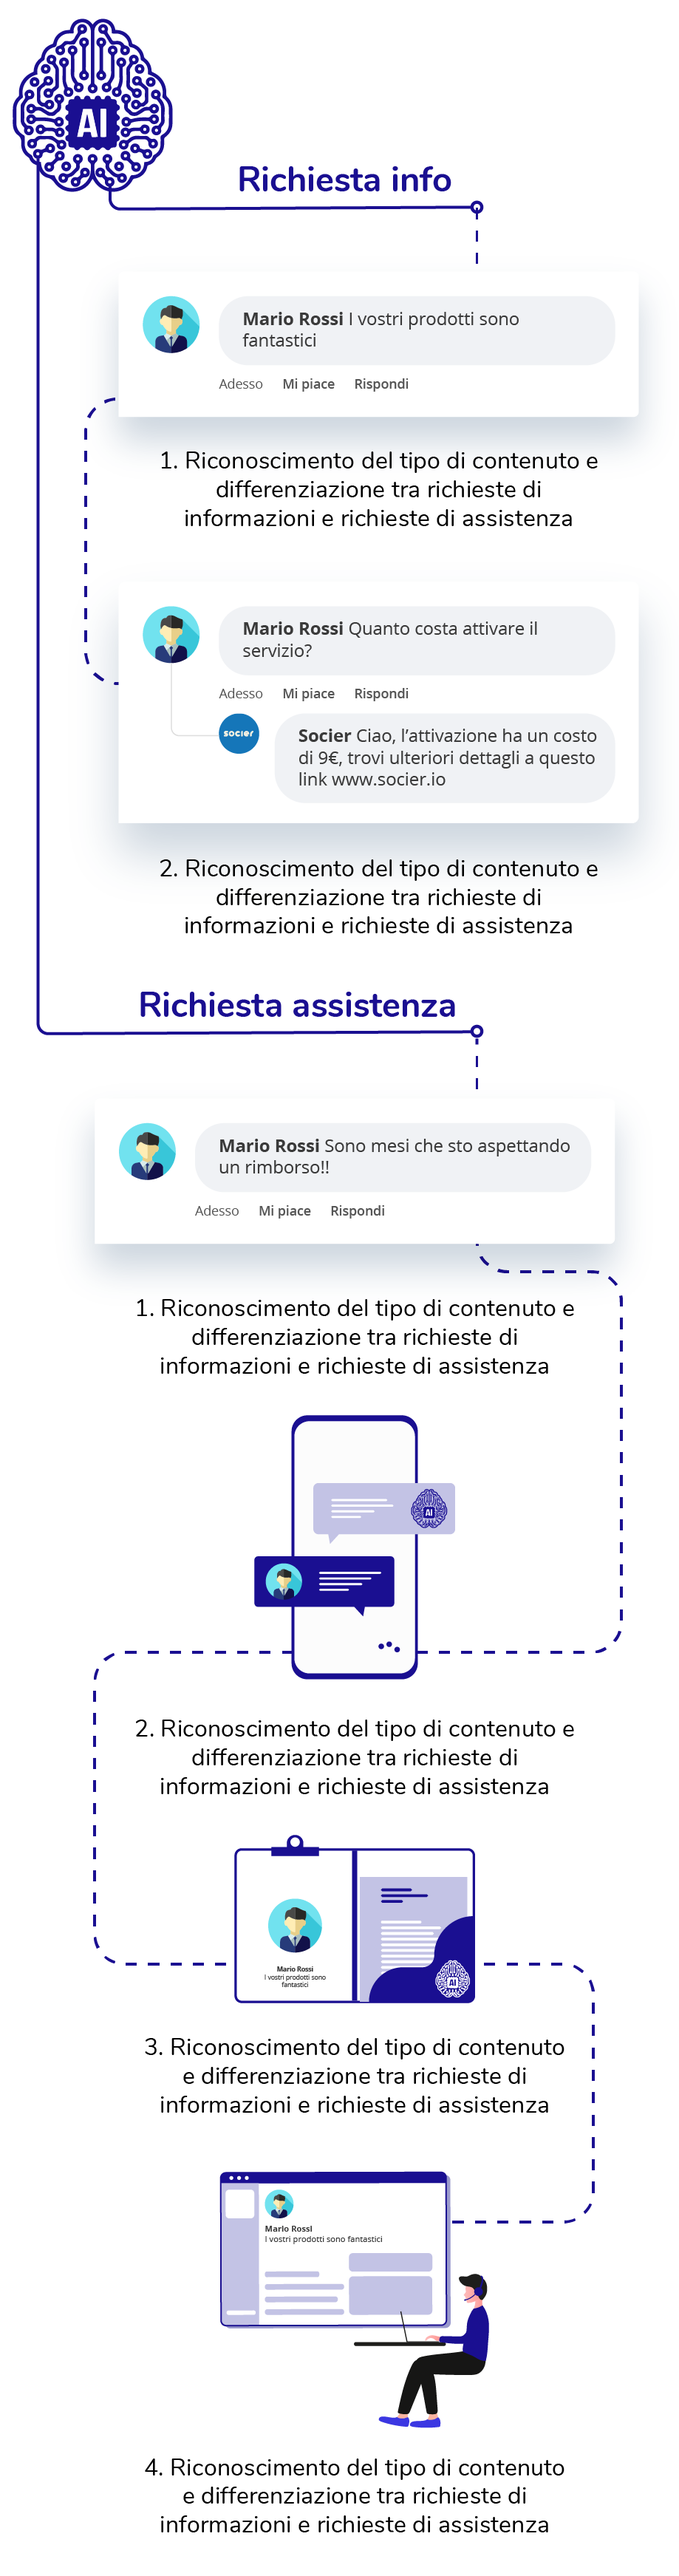
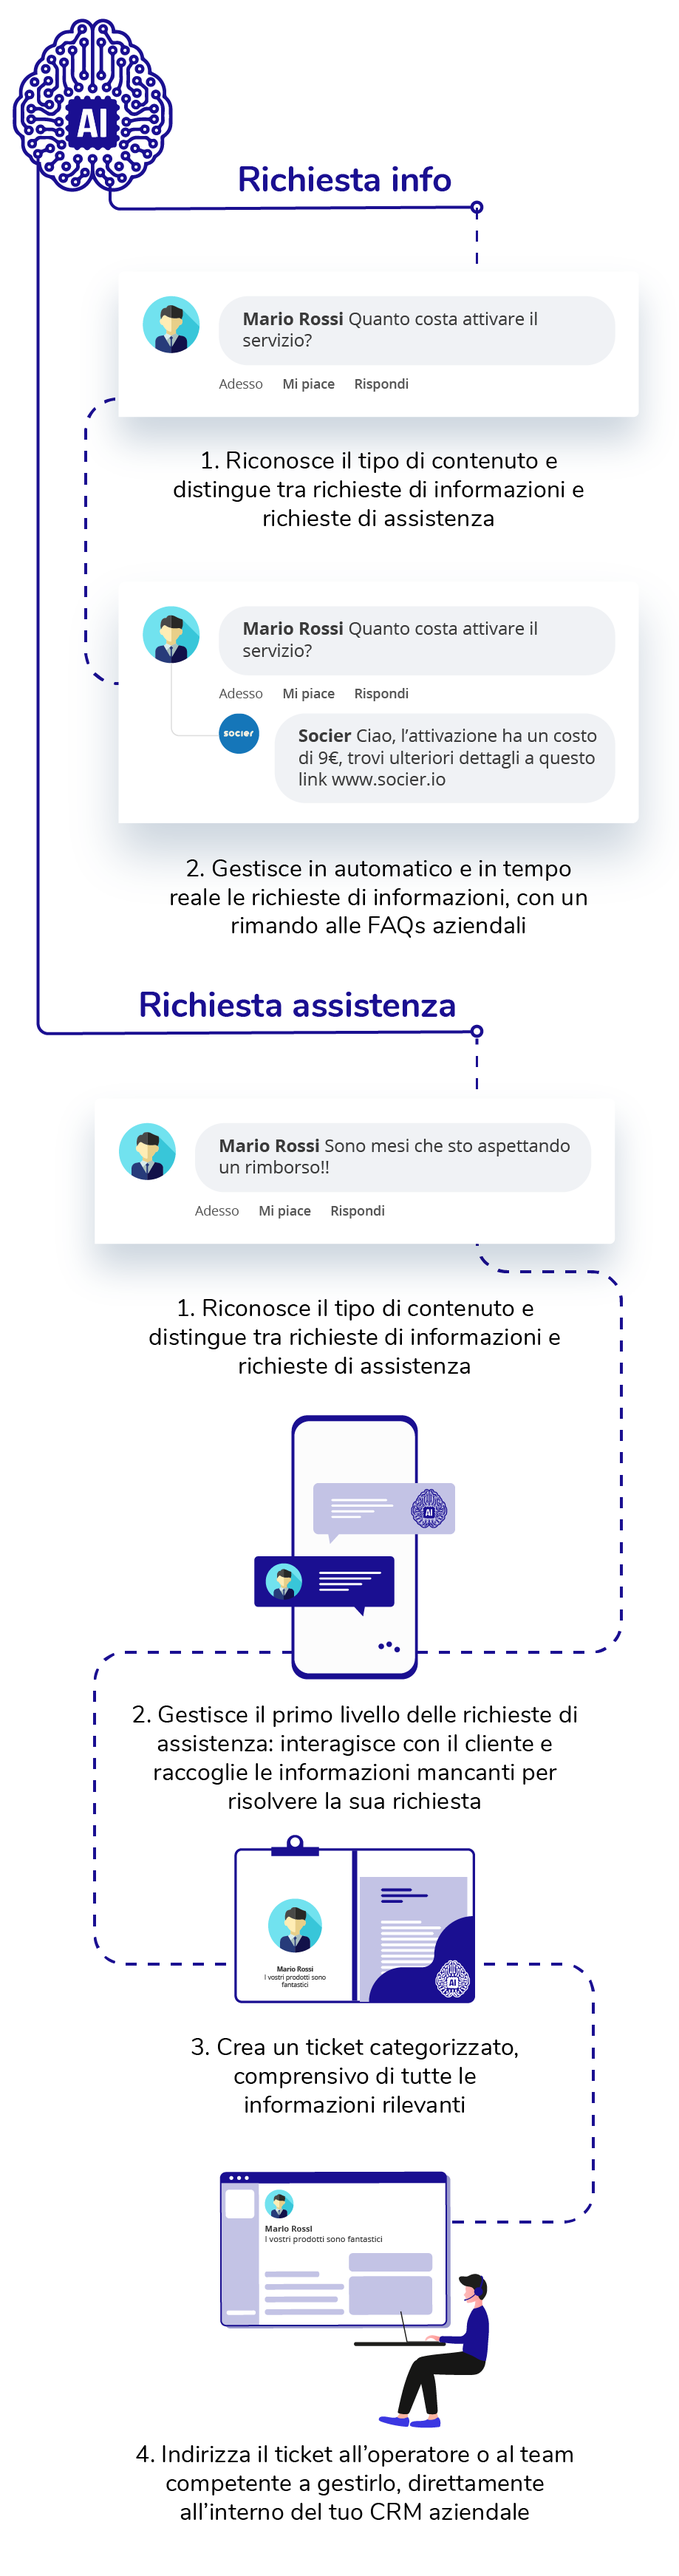
fix testi

diff --git a/cnc.html b/cnc.html
@@ -77,17 +77,15 @@
 
     <div class="container stip_cnc-container">
         <div class="row h-100 justify-content-center align-items-center">
-            <div class="col-md-5">
+            <div class="col-md-6 pr-md-5 pr-0">
                 <h1>E tu, l’hai mai provata?</h1>
-                <h2 class="mt-3">La nostra Intelligenza Artificiale è nelle tue mani.</h2>
-                <p class="stip-txt">Tutti ne parlano, ma nessuno si assume il rischio di fartela provare. Noi si.
-                    Prova l’IA di Stip e immagina come potrebbe migliorare il tuo business.
-                </p>
-                <p class="stip-txt">Vedi questo post?
-                    è un post Facebook, di una qualsiasi azienda, proprio come la tua. Una cosa è certa: qualcuno commenterà e quasi sempre, si aspetterà una risposta. Commenta il post qui sotto come farebbe un tuo cliente e scopri cosa succede!
+                <h2>La nostra Intelligenza Artificiale è nelle tue mani.</h2>
+                <p class="stip-txt">Tutti ne parlano, ma nessuno si assume il rischio di fartela provare. Stip si.</p>
+                <p class="stip-txt mt-4">Vedi questo post?
+                    E’ un post Facebook, di una qualsiasi azienda, proprio come la tua. Commenta il post come farebbe un tuo cliente e scopri cosa succede!
                 </p>
             </div>
-            <div class="offset-md-1 col-md-6 mt-4 mt-md-0">
+            <div class="col-md-6 mt-4 mt-md-0">
                 <div class="card stip_facebook-card shadow">
                     <div class="card-header bg-white">
                         <div class="d-flex align-items-center">
@@ -144,6 +142,13 @@
                 </div>
             </div>
         </div>
+        <div class="row">
+            <div class="col">
+                <p class="stip-txt text-center mt-4">
+                    Gioca con l’IA di Stip, la prima che ti permette di <b>migliorare l’efficienza dei tuoi operatori del 300%</b>. E ricorda, il <b>95% dei ticket gestiti</b> tramite Stip non hanno bisogno di un ulteriore contatto con il cliente!
+                </p>
+            </div>
+        </div>
     </div>
 
     <div id="stip_caring-animation" style="display: none;">
@@ -153,45 +158,21 @@
                     <h3 class="stip-h1" style="font-weight: 600;" data-aos="fade">Questo contenuto è “caring”. Ma cosa significa?</h3>
                 </div>
             </div>
-            <div class="row">
-                <div class="col-md-6">
+            <div class="row justify-content-center">
+                <div class="col-md-8">
                     <p class="stip-txt" data-aos="fade">
-                        L’IA di Stip individua come “caring” tutte le <b>richieste di informazioni e quelle di assistenza</b>, assegnando a questo tipo di contenuti una <b>priorità elevata</b> di gestione per il team di customer service.
+                        L’Intelligenza Artificiale di Stip identifica come “caring” tutte le <b>richieste di informazioni e quelle di assistenza</b>, assegnandogli una <b>priorità elevata</b> di gestione.
 
-                        L’IA riconosce questi tipi di richieste e distingue tra richieste informazioni, che possono essere gestite direttamente e senza necessità di intervento umano, e richieste di assistenza, che hanno bisogno di essere gestite da un operatore.
-
+                        Stip prevede due diversi procedimenti per la gestione delle richieste di informazioni e di quelle di assistenza:
                     </p>
                     <ul>
                         <li>
-                            <p>Le richieste di informazioni vengono gestite dall’IA di Stip automaticamente e in tempo reale, attraverso l’invio di FAQs e in accordo con le policy aziendali
-                            </p>
+                            <p class="m-0">individuata una richiesta di informazioni, l’IA la gestisce automaticamente e in tempo reale</p>
                         </li>
                         <li>
-                            <p>Le richieste di assistenza prevedono una gestione di primo livello da parte dell’IA di Stip, che consente all’operatore di finalizzare la gestione in una sola interazione con l’utente.
-                            </p>
+                            <p>identificata una richiesta di assistenza, l’IA la gestisce in primo livello, lasciando all’operatore il compito di completarne la gestione nel modo più rapido ed efficace possibile.</p>
                         </li>
                     </ul>
-                </div>
-                <div class="col-md-6">
-                    <p class="stip-txt" data-aos="fade">
-                        Il 99% delle aziende si affida a una gestione manuale di tutte le fasi dell’assistenza al cliente. Ogni volta che un utente scrive un contenuto indirizzato - direttamente o indirettamente - all’azienda, un operatore dovrà:
-                    </p>
-                    <ul>
-                        <li>
-                            <p>leggerlo e comprenderne il contenuto</p>
-                        </li>
-                        <li>
-                            <p>definirne la priorità di risoluzione</p>
-                        </li>
-                        <li>
-                            <p>gestirlo o invarlo alla persona più competente</p>
-                        </li>
-                    </ul>
-                    <p>
-                        Queste attività costituiscono un grande dispendio di tempo ed energia per gli operatori e un grande sforzo economico per l’azienda, pur non possedendo alcun <b>“valore aggiunto” per il cliente</b> finale.
-
-                        <b>Automatizzando la gestione di primo livello delle richieste</b>, l’IA di Stip consente agli operatori di aumentare la propria efficienza, all’azienda di risparmiare e agli utenti di ricevere un servizio più soddisfacente.
-                    </p>
                 </div>
             </div>
         </div>
@@ -205,32 +186,22 @@
                 <div class="col d-flex align-items-center flex-column" data-aos="fade">
                     <img src="./src/img/flusso_caring.png" class="d-none d-md-block w-100">
                     <img src="./src/img/flusso_caring_mobile.png" class="d-block d-md-none w-100">
+                </div>
+            </div>
+            <div class="row">
+                <div class="col d-flex justify-content-center">
                     <a href="https://wa.me/+393474975970?text=Vorrei%20avere%20pi%C3%B9%20informazioni"><button type="button"
                             title="contattaci su Whatsapp"
                             class="d-block d-md-none mt-4 btn btn-primary stip-cta-linkedin">
                             Contattaci su Whatsapp
                         </button></a>
+                    <a style="text-decoration: none;" href="mailto:fabrizio.aiello@stip.io"><button type="button"
+                            title="contattaci su Whatsapp"
+                            class="d-none d-md-block mt-4 btn btn-primary stip-cta-linkedin text-center">
+                            CONTATTACI VIA EMAIL<i class="material-icons-outlined ml-2"
+                                style="vertical-align: middle; font-size: 18px;">email</i>
+                        </button></a>
                 </div>
-                <!-- <div class="col-md-4" data-aos="fade">
-                    <img src="./src/img/cnc-caring1.png" class="w-100">
-                    <h2 class="stip-h3 text-center">Riconoscimento del tipo di contenuto e differenziazione tra richieste di informazioni e richieste di assistenza</h2>
-                </div>
-                <div class="col-md-4" data-aos="fade">
-                    <img src="./src/img/cnc-caring2.png" class="w-100">
-                    <h2 class="stip-h3 text-center">Gestione automatica, in tempo reale e senza necessità di intervento umano delle richieste informazioni, attraverso FAQs o secondo le policy aziendali</h2>
-                </div>
-                <div class="col-md-4" data-aos="fade">
-                    <img src="./src/img/cnc-caring3.png" class="w-100">
-                    <h2 class="stip-h3 text-center">Gestione di primo livello delle richieste di assistenza: raccolta delle informazioni necessarie per la risoluzione della richiesta dell’utente</h2>
-                </div>
-                <div class="col-md-4" data-aos="fade">
-                    <img src="./src/img/cnc-caring4.png" class="w-100">
-                    <h2 class="stip-h3 text-center">Creazione di un ticket categorizzato, comprensivo delle informazioni ricevute a seguito dell’interazione automatica con l’utente</h2>
-                </div>
-                <div class="col-md-4" data-aos="fade">
-                    <img src="./src/img/cnc-caring4.png" class="w-100">
-                    <h2 class="stip-h3 text-center">Indirizzamento del ticket categorizzato all’operatore o al team competente a gestirlo, all’interno del CRM aziendale</h2>
-                </div> -->
             </div>
         </div>
     </div>
@@ -242,21 +213,12 @@
                     <h3 class="stip-h1" style="font-weight: 600;" data-aos="fade">Questo contenuto è “no caring”. Ma cosa significa?</h3>
                 </div>
             </div>
-            <div class="row">
-                <div class="col-md-6">
+            <div class="row justify-content-center">
+                <div class="col-md-8">
                     <p class="stip-txt" data-aos="fade">
-                        L’IA di Stip individua come “no caring” tutti i contenuti che abbiano bassa (o nulla) priorità di gestione per il team di customer service, non trattandosi di richieste di assistenza o di informazioni.
+                        L’Intelligenza Artificiale di Stip identifica come “no caring” tutti i contenuti diversi da richieste di assistenza o di informazione, che abbiano, quindi, <b>bassa (o nulla) priorità di gestione</b> per il team di customer service,
 
-                        I contenuti classificati dall’IA di Stip come “no caring” saranno comunque visibili all’interno del CRM aziendale (o sulla piattaforma di Stip) e potranno essere gestiti.
-                    </p>
-                </div>
-                <div class="col-md-6">
-                    <p class="stip-txt" data-aos="fade">
-                        <b>Come cambia il customer service di oggi?</b>
-
-                        I contenuti “no caring” costituiscono una percentuale variabile tra il 60% e il 90% di tutti i contenuti ricevuti da un’azienda sui canali digitali.
-
-                        Questa classificazione automatica dell’IA di Stip, consente agli operatori di risparmiare il tempo impiegato nella lettura e nel riconoscimento di questi contenuti, permettendogli di concentrarsi solo sulla gestione delle richieste di assistenza e sulle attività di secondo livello, a “valore aggiunto” per il cliente.
+                        I contenuti “no caring” restano comunque visibili all’interno del CRM aziendale o della piattaforma di Stip e sono gestibili manualmente, secondo le policy aziendali.
                     </p>
                 </div>
             </div>
@@ -270,17 +232,46 @@
             <div class="row justify-content-center">
                 <div class="col-md-4" data-aos="fade">
                     <img src="./src/img/cnc-nocaring1.png" class="w-100">
-                    <h2 class="stip-h3 text-center">Riconoscimento della bassa (o nulla) priorità di gestione del contenuto (applicabile a tutti i contenuti che non siano richieste di assistenza o informazioni)</h2>
+                    <h2 class="stip-h3 text-center">Riconosce la bassa (o nulla) priorità di gestione del contenuto: applicabile a tutti i contenuti diversi da richieste di assistenza o di informazioni</h2>
                 </div>
                 <div class="col-md-4" data-aos="fade">
                     <img src="./src/img/cnc-nocaring2.png" class="w-100">
-                    <h2 class="stip-h3 text-center">Indirizzamento automatico del contenuto all’interno del CRM aziendale o della piattaforma di Stip</h2>
+                    <h2 class="stip-h3 text-center">Indirizza automaticamente il contenuto “no caring” all’interno del CRM aziendale, offrendo la possibilità di gestirlo manualmente</h2>
                 </div>
-                <a href="https://wa.me/+393474975970?text=Vorrei%20avere%20pi%C3%B9%20informazioni"><button type="button"
-                        title="contattaci su Whatsapp"
-                        class="d-block d-md-none mt-4 btn btn-primary stip-cta-linkedin text-center">
-                        Contattaci su Whatsapp
-                    </button></a>
+            </div>
+            <div class="row">
+                <div class="col d-flex justify-content-center">
+                    <a href="https://wa.me/+393474975970?text=Vorrei%20avere%20pi%C3%B9%20informazioni"><button type="button"
+                            title="contattaci su Whatsapp"
+                            class="d-block d-md-none mt-4 btn btn-primary stip-cta-linkedin">
+                            Contattaci su Whatsapp
+                        </button></a>
+                    <a style="text-decoration: none;" href="mailto:fabrizio.aiello@stip.io"><button type="button"
+                            title="contattaci su Whatsapp"
+                            class="d-none d-md-block mt-4 btn btn-primary stip-cta-linkedin text-center">
+                            CONTATTACI VIA EMAIL<i class="material-icons-outlined ml-2"
+                                style="vertical-align: middle; font-size: 18px;">email</i>
+                        </button></a>
+                </div>
+            </div>
+        </div>
+    </div>
+    
+    <div class="container-fluid stip-section-linkedin text-white stip_cnc-description mt-5">
+        <div class="row justify-content-center">
+            <div class="col-md-8">
+                <h3 class="stip-h1" style="font-weight: 600;" data-aos="fade">Come può migliorare il tuo business?</h3>
+                <p class="stip-txt" data-aos="fade">
+                    Il 99% delle aziende oggi si affida ancora a una <b>gestione totalmente manuale</b> del processo di customer service.
+
+                    Ogni volta che un utente scrive su un canale digitale, un operatore deve: leggere il contenuto e comprenderlo, definirne la categoria e la priorità di risoluzione e gestirlo o inviarlo alla persona più competente.
+
+                    Queste attività non sono visibili all’utente finale e non hanno per lui alcun “valore aggiunto”, nonostante costituiscano un enorme dispendio di tempo e risorse per l’azienda.
+
+                    Stip automatizza la gestione di primo livello di tutte le richieste, archiviando le richieste “no caring” - che costituiscono una percentuale variabile tra il 60 e il 90% di quelle ricevute dalle aziende sui canali digitali - risolvendo automaticamente le richieste di informazioni e gestendo parzialmente quelle complesse.
+
+                    Questo intervento consente agli operatori di <b>concentrarsi solo sulle attività a valore aggiunto per il cliente</b> finale, aumentando la propria efficienza, permette all’azienda di risparmiare e agli utenti di ricevere un servizio più soddisfacente.
+                </p>
             </div>
         </div>
     </div>
@@ -300,6 +291,7 @@
     <script defer src="https://unpkg.com/aos@2.3.1/dist/aos.js"></script>
     <script>
         $(document).ready(function () {
+
             // frasi post random
             var textArray = [
                 {
@@ -345,18 +337,6 @@
             $("#stip_facebook-comment-nocaring").text(textArray[randomNumber].comments.nocaring)
 
             $("#stip_facebook-refresh").click(function () {
-                console.log($(".stip_facebook-card").height())
-                if ($(".stip_facebook-card").height() > 560 && $(window).width() > 1200) {
-                    $(".stip_cnc-container").css({
-                        "height": "auto",
-                        "padding-top": "150px"
-                    })
-                } else if ($(".stip_facebook-card").height() < 560 && $(window).width() > 1200) {
-                    $(".stip_cnc-container").css({
-                        "height": "100vh",
-                        "padding-top": "0px"
-                    })
-                }
                 $("#stip_facebook-card-body-append").empty()
                 let old_randomNumber = randomNumber
                 while (old_randomNumber == randomNumber) {
@@ -366,20 +346,6 @@
                 $("#stip_facebook-comment-caring").text(textArray[randomNumber].comments.caring)
                 $("#stip_facebook-comment-nocaring").text(textArray[randomNumber].comments.nocaring)
             })
-
-            setTimeout(function () {
-                if ($(".stip_facebook-card").height() > 550 && $(window).width() > 1200) {
-                    $(".stip_cnc-container").css({
-                        "height": "auto",
-                        "padding-top": "150px"
-                    })
-                } else if ($(".stip_facebook-card").height() < 550 && $(window).width() > 1200) {
-                    $(".stip_cnc-container").css({
-                        "height": "100vh",
-                        "padding-top": "0px"
-                    })
-                }
-            }, 200)
 
             let comments_counter = 2
             $("#stip_facebook-form").submit(function (e) {
@@ -441,17 +407,6 @@
 
                             comments_counter = comments_counter + 1
                             $("#stip_facebook-comments-counter").text(comments_counter)
-                        }
-                        if ($(".stip_facebook-card").height() > 550 && $(window).width() > 1200) {
-                            $(".stip_cnc-container").css({
-                                "height": "auto",
-                                "padding-top": "150px"
-                            })
-                        } else if ($(".stip_facebook-card").height() < 550 && $(window).width() > 1200) {
-                            $(".stip_cnc-container").css({
-                                "height": "100vh",
-                                "padding-top": "0px"
-                            })
                         }
                     },
                     error: function (err) { //if error

diff --git a/src/style/index.css b/src/style/index.css
@@ -598,12 +598,12 @@ b {
 }
 
 .stip_cnc-container {
-  height: 100vh;
+  padding-top: 150px;
 }
 
 .stip_cnc-container h1 {
-  font-size: 42px;
-  font-weight: 600;
+  font-size: 46px;
+  font-weight: 700;
   line-height: 1.4;
   color: #1a0f91;
 }
@@ -692,7 +692,6 @@ b {
 @media (max-width: 576px) {
   .stip_cnc-container {
     padding: 100px 25px 0 25px;
-    height: auto;
   }
   .stip_cnc-container h1 {
     font-size: 32px;
